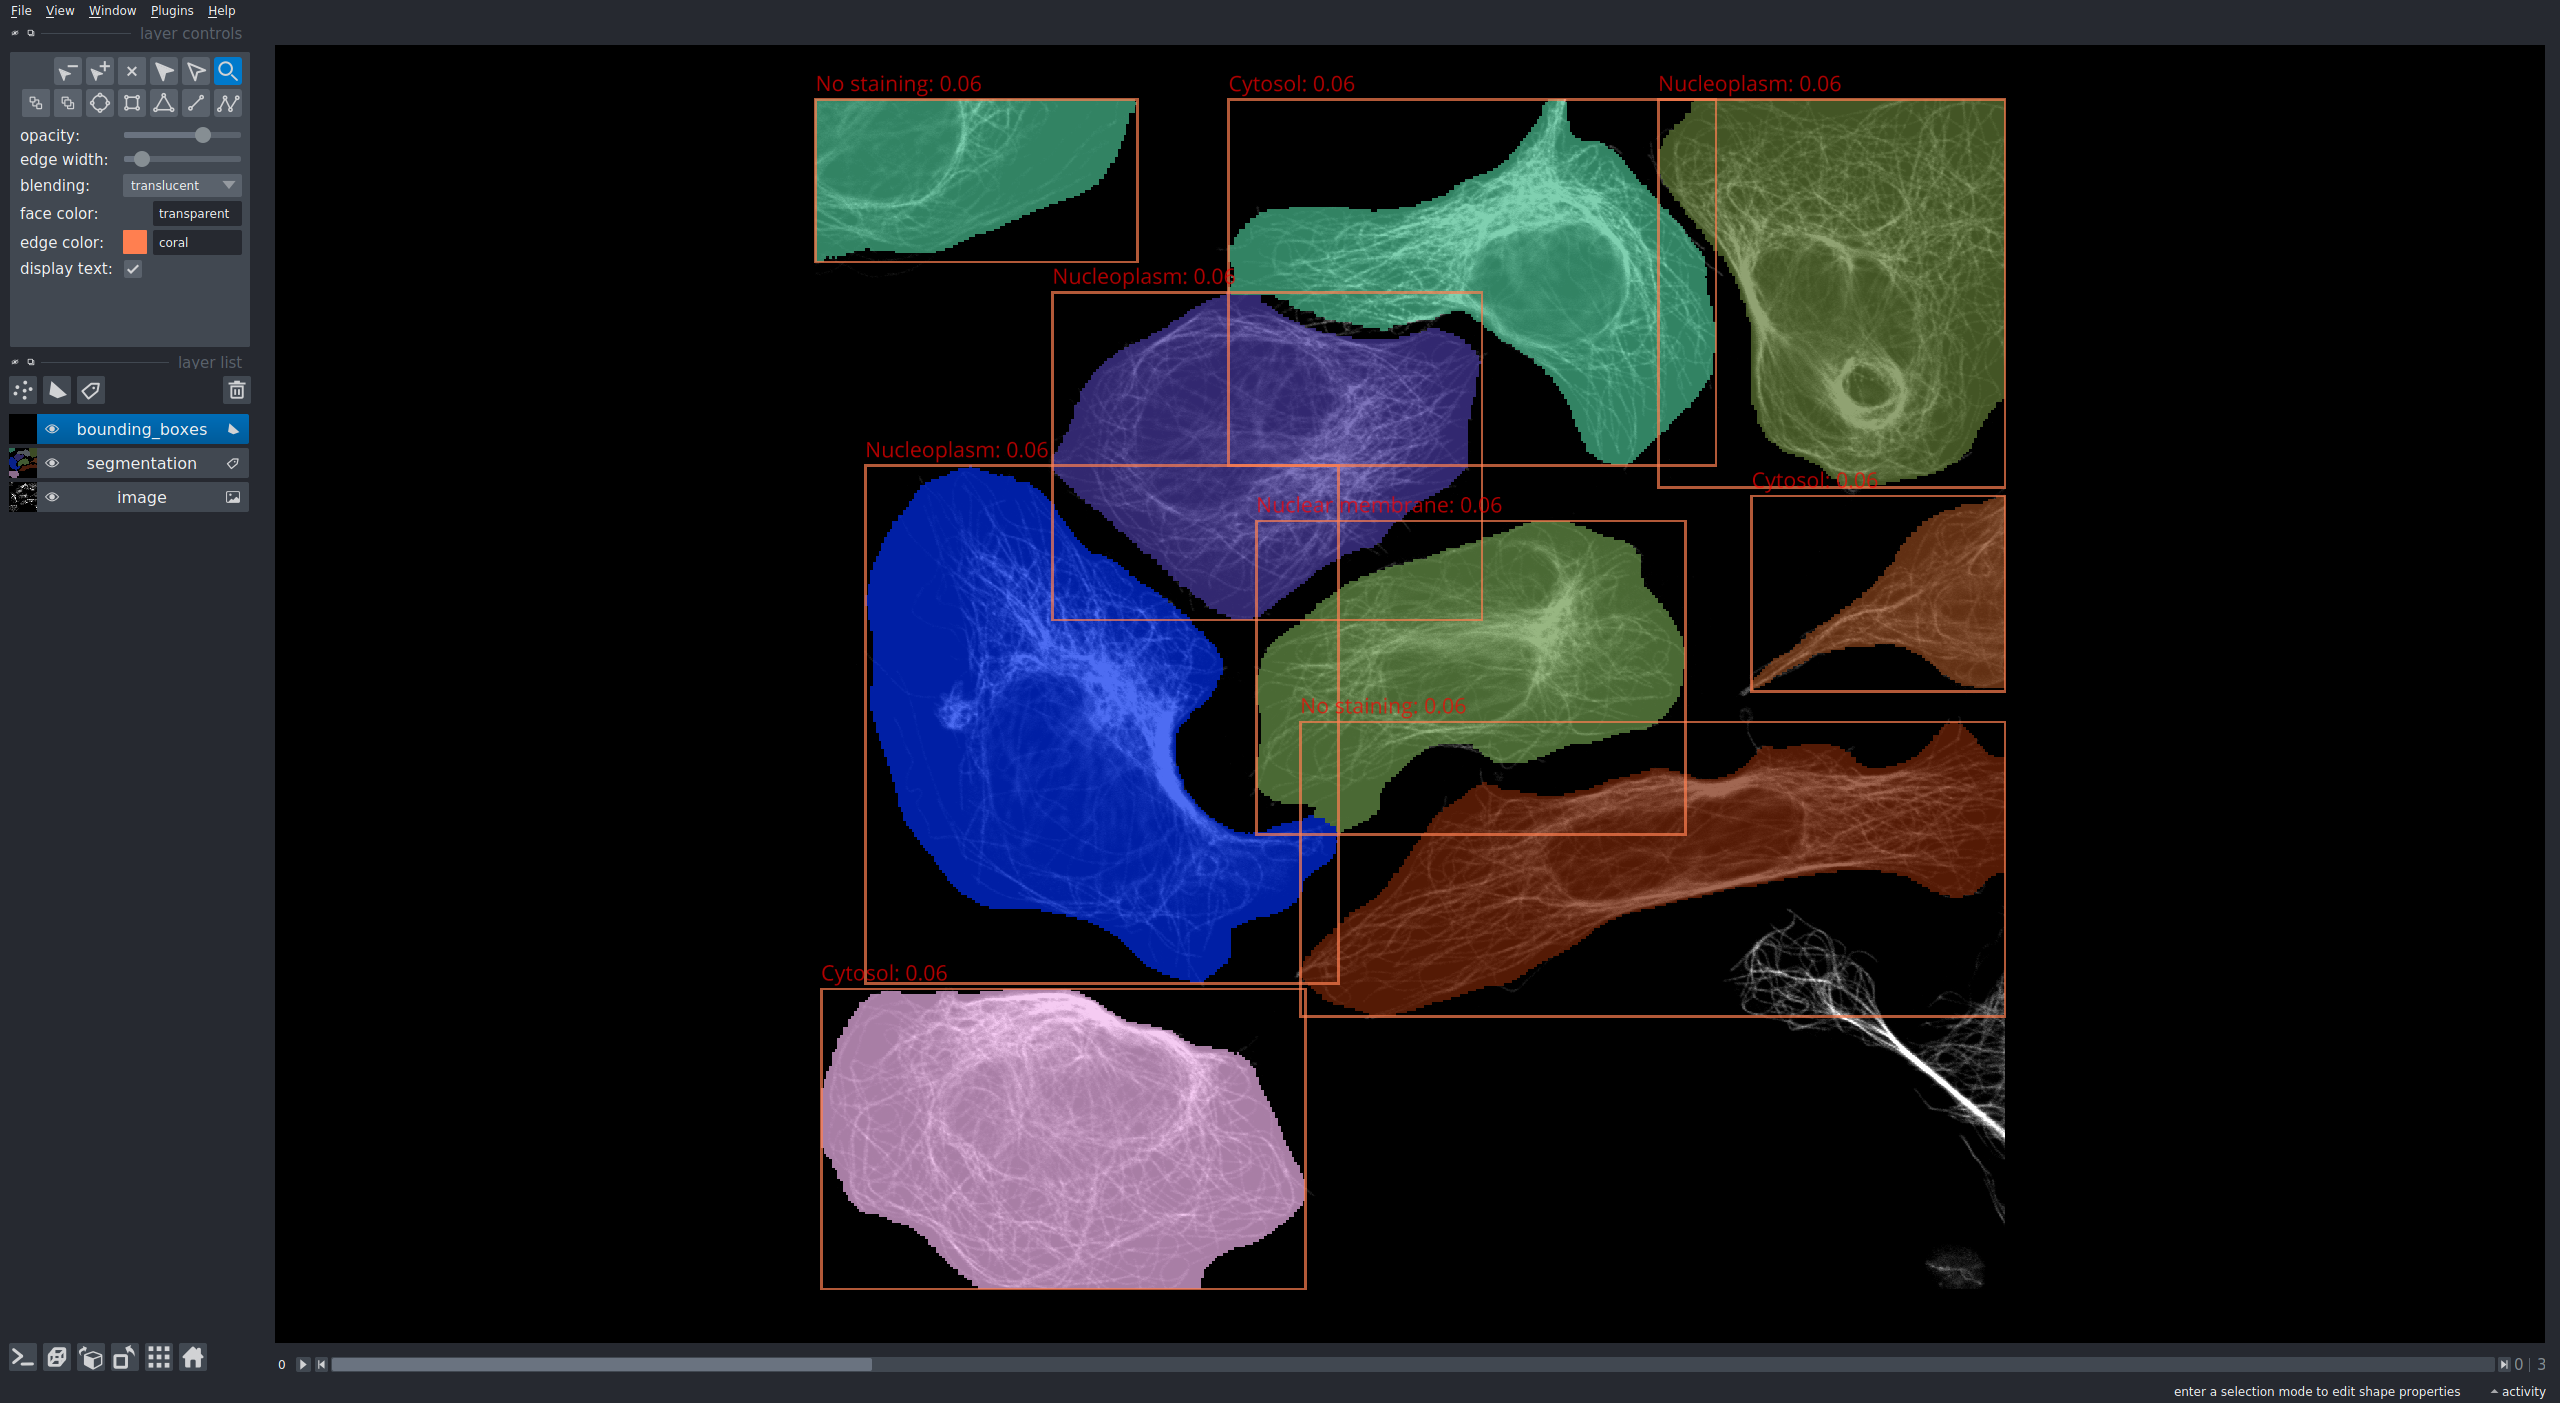
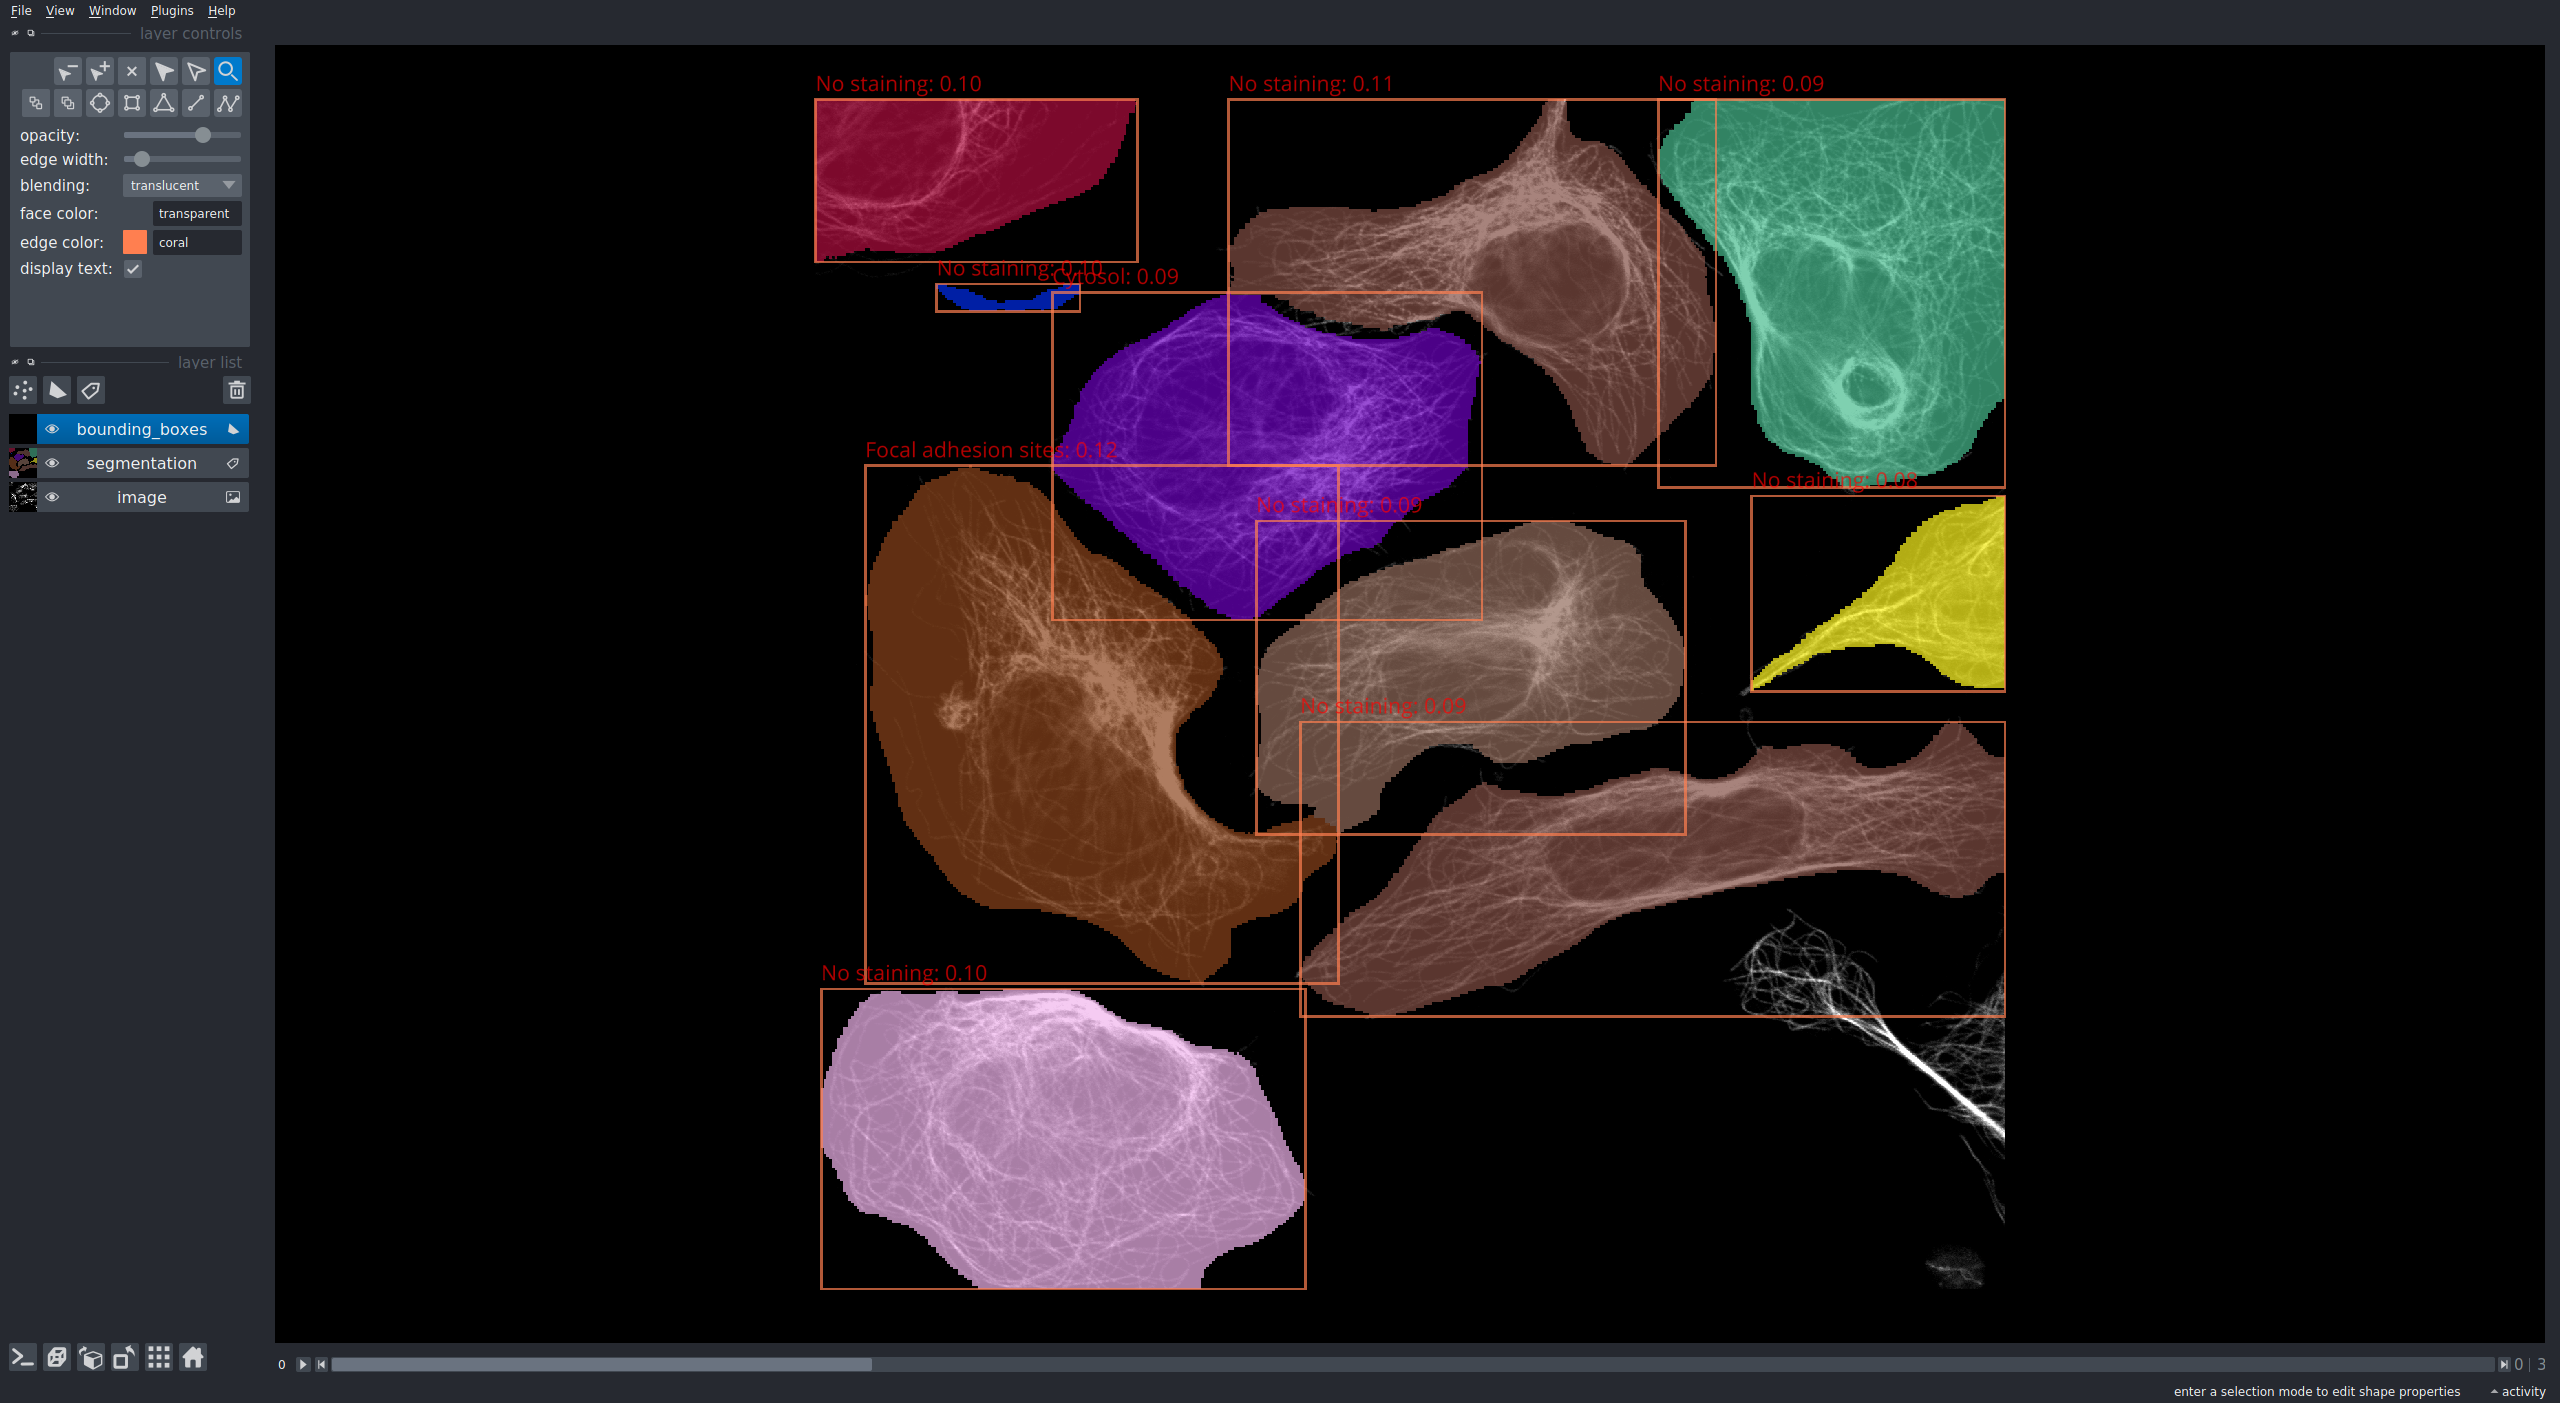
Update hpa use-case readme

diff --git a/case3/hpa_app.py b/case3/hpa_app.py
@@ -318,7 +318,11 @@ def visualize_results(image_paths, segmentation_paths, prediction_paths):
             visualize(image, seg, pred, title=f"{cls_name}:{os.path.basename(seg_path)}")
 
 
+# the code is based on:
 # https://www.kaggle.com/lnhtrang/hpa-public-data-download-and-hpacellseg
+# https://github.com/CellProfiling/HPA-Cell-Segmentation/blob/master/hpacellseg/cellsegmentator.py
+# https://github.com/CellProfiling/HPA-Cell-Segmentation/blob/master/hpacellseg/utils.py
+# https://github.com/oeway/hpa-bestfitting-inceptionv3/blob/master/simple_predict.py
 def main():
     description = "Example python app for class prediction of HPA images with a bioimage.io model."
     parser = argparse.ArgumentParser(description=description)

diff --git a/case3/README.md b/case3/README.md
@@ -1,22 +1,19 @@
 # Use-case 3: Classification, imjoy & python library usage
 
-## The model
+This use-case wraps the best performing approach of the [Kaggle Human Protein Atlas - Single Cell Classiication Challenge](https://www.kaggle.com/c/hpa-single-cell-image-classification).
+It first segments the cells in the images using [a model](TODO bioimageio link) that predicts cell foreground and boundaries for inputs to a seeded watershed, with seeds from a [separate model for nucleus segmentation](TODO bioimageio link).
+The model 10.5281/zenodo.5910855 (not on the website yet, PR: https://github.com/bioimage-io/collection-bioimage-io/pull/266) then classifies the individual cells.
 
-We use 10.5281/zenodo.5910855 (not on the website yet, PR: https://github.com/bioimage-io/collection-bioimage-io/pull/266).
+We demonstrate how this approach can be wrapped for 3 different backends using the bioimageio models and consumer software.
 
 ## Usage in python library
 
-The `hpa_app.py` loads data from the hpa website, runs cell segmentation and then classifies each cell.
+The `hpa_app.py` scrips loads data from the hpa website, runs cell segmentation and then classifies each cell.
+To this end it makes use of the python [bioimageio.core](ihttps://github.com/bioimage-io/core-bioimage-io-python) library that allows to integrate bioimageio models into any python application.
+It uses [napari](https://github.com/napari/napari) to visualize the segmentation and classification results. See the results or two images, one with nucleoplasm staining, the other with microtubulus staining below.
 
-TODO/ISSUES:
-- Wei will follow up if we need to resize the image.
-- Wei will also look into wrapping the original segmentation model.
-- The current class predictions don't look right, might be due to not resizeing or some issue in the channel order.
-
-The original segmentation functionality:
-https://github.com/CellProfiling/HPA-Cell-Segmentation/blob/master/hpacellseg/cellsegmentator.py
-https://github.com/CellProfiling/HPA-Cell-Segmentation/blob/master/hpacellseg/utils.py
-
+<img src="images/hpa_nucleoplasm.png" alt="drawing" width="800"/>
+<img src="images/hpa_microtubules.png" alt="drawing" width="800"/>
 
 ## Usage in imjoy / bioengine
 
